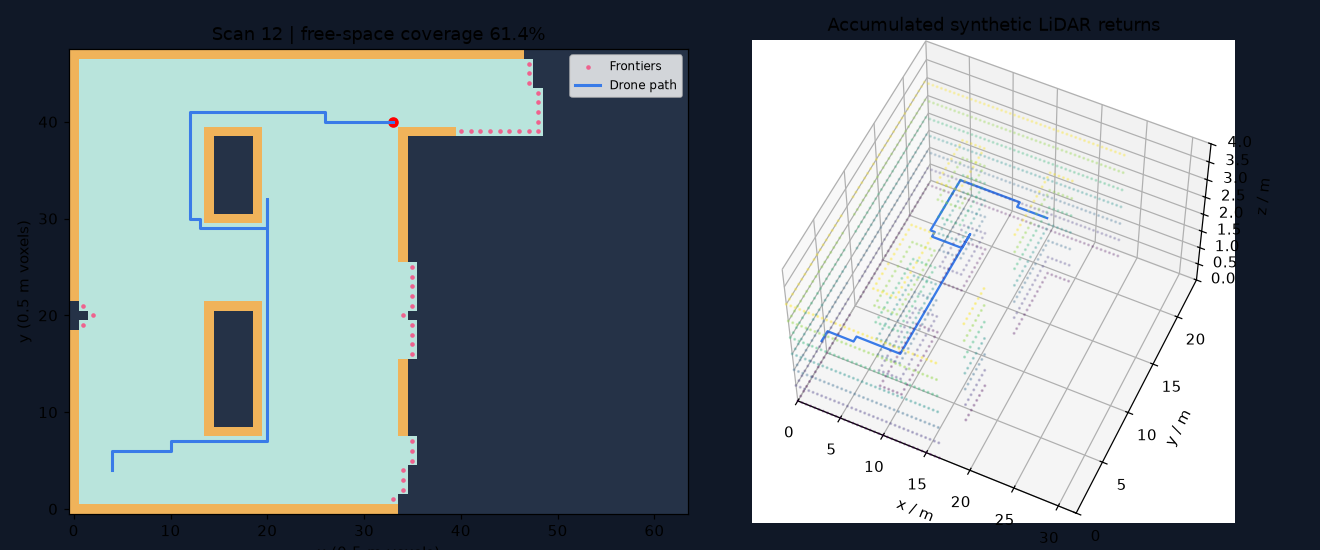
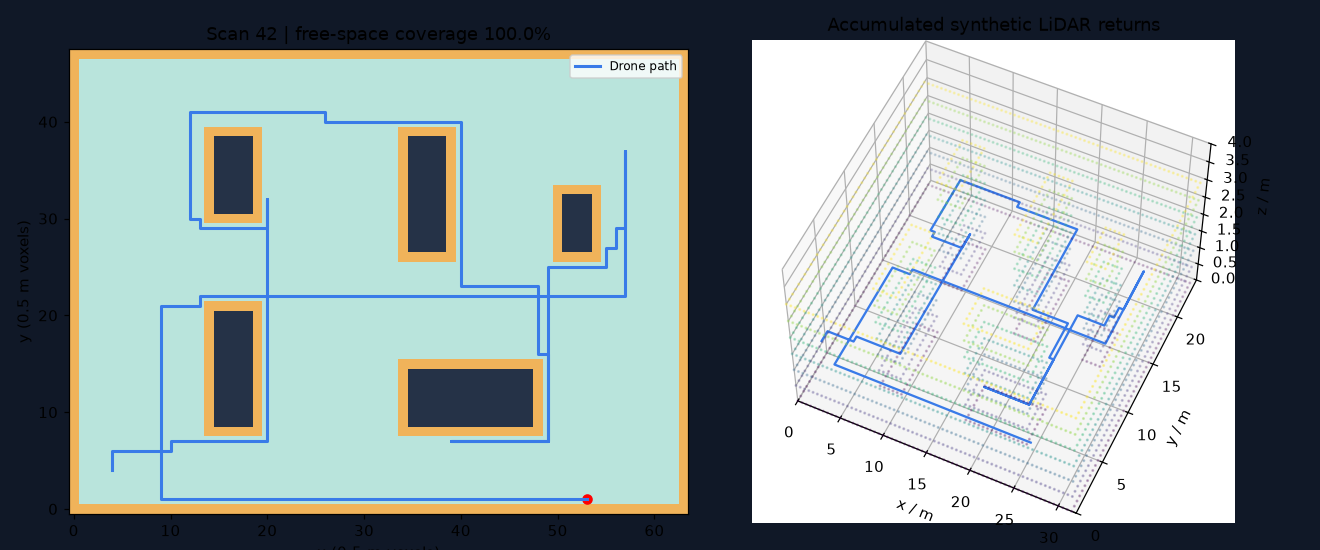
Vectorize scan traversal and include fully explored example

diff --git a/explore.py b/explore.py
@@ -27,13 +27,16 @@ def scan(world, known, pose, hits, radius=15):
                     distances[None, :, None] *
                     np.stack([np.sin(angles), np.cos(angles)], axis=1)[:, None, :]).astype(int)
     for ray in rays:
-        for y, x in ray:
-            if not (0 <= y < world.shape[0] and 0 <= x < world.shape[1]):
-                break
-            known[y, x] = int(world[y, x])
-            if world[y, x]:
-                hits.add((y, x))
-                break
+        valid = ((ray[:, 0] >= 0) & (ray[:, 0] < world.shape[0]) &
+                 (ray[:, 1] >= 0) & (ray[:, 1] < world.shape[1]))
+        ray = ray[:np.argmax(~valid)] if not valid.all() else ray
+        if not len(ray):
+            continue
+        occupied = world[ray[:, 0], ray[:, 1]]
+        if occupied.any():
+            ray = ray[:np.argmax(occupied) + 1]
+            hits.add(tuple(ray[-1]))
+        known[ray[:, 0], ray[:, 1]] = world[ray[:, 0], ray[:, 1]].astype(np.int8)
 
 
 def neighbors(cell, shape):
